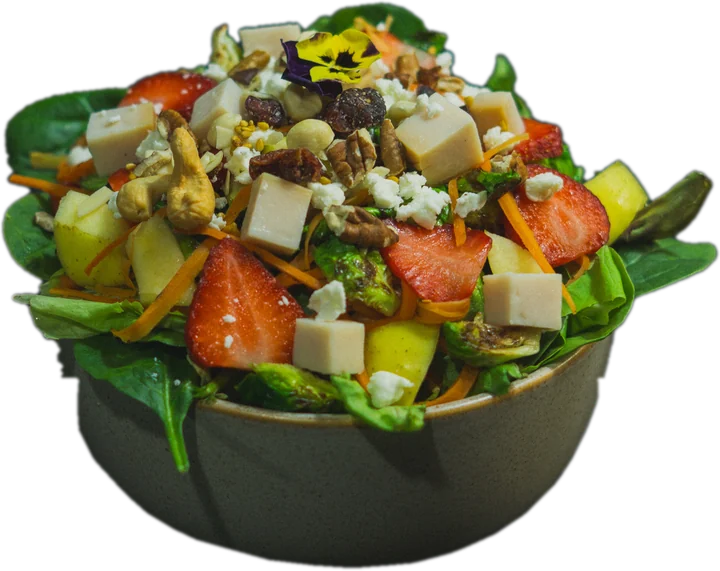
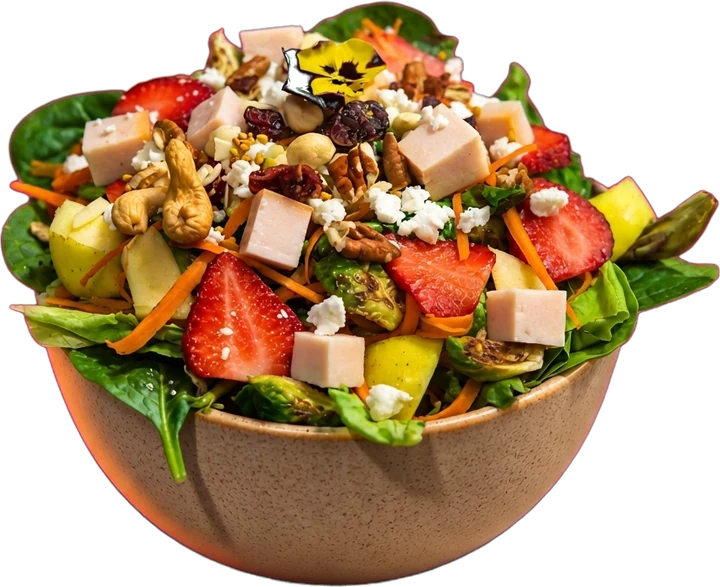
Ensaladas: fotos nuevas retocadas (Nano Banana) recortadas del fondo magenta
Claude-Session: https://claude.ai/code/session_014MYiZw9DCFwXijDfbvyeKp

diff --git a/index.html b/index.html
@@ -134,7 +134,7 @@
         <article class="es" data-vibra="pizarnik" aria-roledescription="ensalada" aria-label="Ensalada Pizarnik">
           <div class="es__carta"><span class="es__llamas" aria-hidden="true"></span></div>
           <p class="es__nombre"><span>Alejandra</span> Pizarnik</p>
-          <img class="es__plato" src="assets/img/ensaladas/pizarnik.webp" width="720" height="600" alt="Ensalada Pizarnik" loading="lazy">
+          <img class="es__plato" src="assets/img/ensaladas/pizarnik.webp" width="720" height="633" alt="Ensalada Pizarnik" loading="lazy">
           <blockquote class="es__chip es__cita"><p>«He dado el salto de mí al alba.»</p><footer><cite>Árbol de Diana</cite></footer></blockquote>
           <p class="es__chip es__vibra">fruta oscura · deseo · silencio · noche</p>
           <a class="es__chip es__pedir" href="https://laymonpizzeria.getjusto.com/pedir">Pide la Pizarnik <span aria-hidden="true">→</span></a>
@@ -157,7 +157,7 @@
         <article class="es" data-vibra="blake" aria-roledescription="ensalada" aria-label="Ensalada Blake">
           <div class="es__carta"><span class="es__llamas" aria-hidden="true"></span></div>
           <p class="es__nombre"><span>William</span> Blake</p>
-          <img class="es__plato" src="assets/img/ensaladas/blake.webp" width="720" height="600" alt="Ensalada Blake" loading="lazy">
+          <img class="es__plato" src="assets/img/ensaladas/blake.webp" width="720" height="580" alt="Ensalada Blake" loading="lazy">
           <blockquote class="es__chip es__cita"><p lang="en">«Every thing that lives is holy.»</p><footer><cite>El matrimonio del cielo y el infierno</cite></footer></blockquote>
           <p class="es__chip es__vibra">naturaleza viva · energía · abundancia</p>
           <a class="es__chip es__pedir" href="https://laymonpizzeria.getjusto.com/pedir">Pide la Blake <span aria-hidden="true">→</span></a>
@@ -180,7 +180,7 @@
         <article class="es" data-vibra="artaud" aria-roledescription="ensalada" aria-label="Ensalada Artaud">
           <div class="es__carta"><span class="es__llamas" aria-hidden="true"></span></div>
           <p class="es__nombre"><span>Antonin</span> Artaud</p>
-          <img class="es__plato" src="assets/img/ensaladas/artaud.webp" width="720" height="600" alt="Ensalada Artaud" loading="lazy">
+          <img class="es__plato" src="assets/img/ensaladas/artaud.webp" width="720" height="587" alt="Ensalada Artaud" loading="lazy">
           <blockquote class="es__chip es__cita"><p>«Acabar con las obras maestras.»</p><footer><cite>El teatro y su doble</cite></footer></blockquote>
           <p class="es__chip es__vibra">cruda · raíz · cuerpo · verdad sin filtro</p>
           <a class="es__chip es__pedir" href="https://laymonpizzeria.getjusto.com/pedir">Pide la Artaud <span aria-hidden="true">→</span></a>
